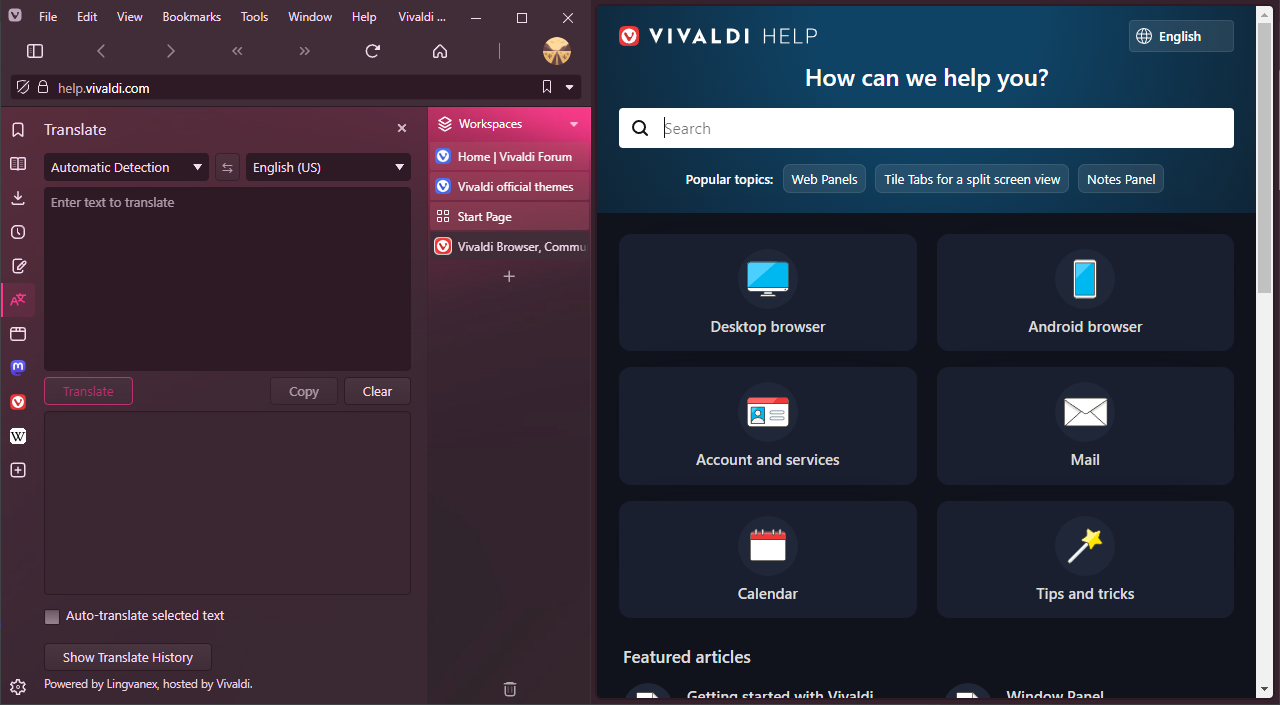
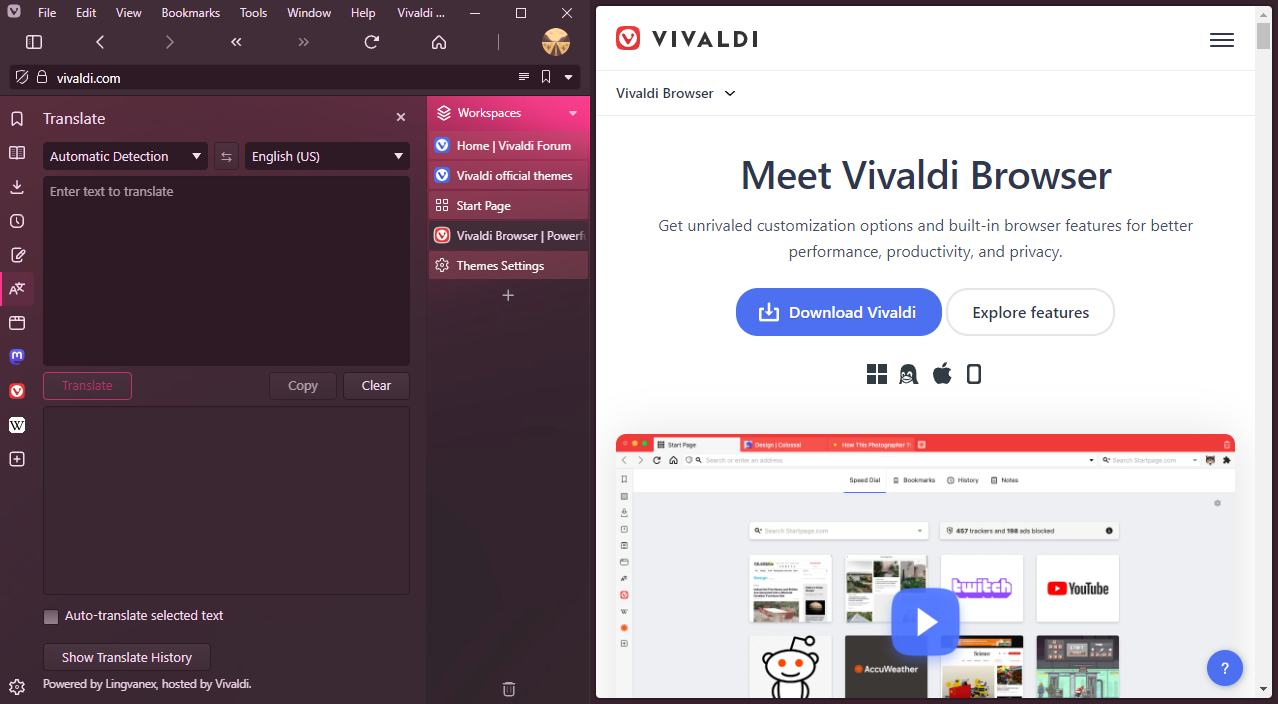
Finalize version 1.2.0:
Increment minor version number.
Update target browser versions.
Update documentation and demo images.
Add v1.2.0 changelog and Command Chain Utilities document.

diff --git a/vivaldi-vh.scss b/vivaldi-vh.scss
@@ -1,7 +1,7 @@
 /*
   Vivaldi VH
-  Version: 1.1.0
-  Target Vivaldi Browser versions: 5.7, 5.8
+  Version: 1.2.0
+  Target Vivaldi Browser versions: 5.7, 6.0
 
   Vivaldi VH is a CSS modification for Vivaldi Browser that grants your webpages the entire vertical space of the browser window by moving the rest of the UI into a separate column.
 

diff --git a/README.md b/README.md
@@ -11,12 +11,11 @@ Vivaldi VH is a CSS modification for [Vivaldi Browser](https://vivaldi.com) that
 
 ## Usage Notes
 
-Vivaldi VH has a built-in failsafe to prevent it from breaking horribly when the Pillar can't be properly constructed. The presence of title bar, address bar and a vertical tab bar are currently mandatory for this.
+Vivaldi VH has a built-in failsafe to prevent it from breaking when the Pillar can't be properly constructed. The presence of address bar and a vertical tab bar are currently mandatory for this.
 
 Vivaldi VH will only activate when all of the following are true:
 
 - Tab Bar Position is set to "Left" or "Right"
-- "Show Title Bar" is checked **OR** "Menu Position" is set to "Horizontal"
 - "Show Address Bar" is checked
 - "Show Tab Bar" is checked
 
@@ -28,11 +27,17 @@ Command Chain Flags allow you to customize Vivaldi VH right inside Vivaldi Brows
 
 [Click here](./documentation/command-chain-flags.md) for more information.
 
+## Command Chain Utilities
+
+Command Chain Utilities allow you to fine-tune the layout of your toolbars.
+
+[Click here](./documentation/command-chain-utilities.md) for more information.
+
 ## Roadmap
 
 Vivaldi VH will be updated regularly to ensure compatibility with the latest stable version of Vivaldi Browser. New functionality may also be added in the future.
 
-[Click here](./documentation/roadmap.md) for more information on planned updates and known issues.
+[Click here](./documentation/roadmap.md) for more information on planned features and known issues.
 
 ## Gallery
 

diff --git a/documentation/command-chain-flags.md b/documentation/command-chain-flags.md
@@ -29,7 +29,7 @@ For each flag, the following precedence rules apply:
 `vvh-enable-addressbar-universal-flex-grow` \
 `vvh-disable-addressbar-universal-flex-grow`
 
-The width of individual components in the address bar grows to occupy free space in their row. This can also grow their click area.
+Individual components in the address bar are distributed evenly across the width of each row. If the title bar is shown, this can also grow their click area.
 
 Additionally, flexible spacers inside the address bar are hidden.
 
@@ -40,7 +40,7 @@ Additionally, flexible spacers inside the address bar are hidden.
 `vvh-enable-statusbar-universal-flex-grow` \
 `vvh-disable-statusbar-universal-flex-grow`
 
-The width of individual components in the status bar grows to occupy free space in their row. This can also grow their click area.
+Individual components in the status bar are distributed evenly across the width of each row. This can also grow their click area.
 
 Additionally, flexible spacers inside the status bar are hidden.
 

diff --git a/documentation/command-chain-utilities.md b/documentation/command-chain-utilities.md
@@ -1,0 +1,19 @@
+# Command Chain Utilities
+
+Command Chain Utilities allow you to fine-tune the layout of your toolbars.
+
+## Setup Guide
+
+You can set up Command Chain Utilities for specific features by following the steps below.
+
+1. [Create a Command Chain](https://help.vivaldi.com/desktop/shortcuts/command-chains/#Create_a_Command_Chain) in the Quick Commands settings of Vivaldi Browser.
+2. Give this command chain a name that matches the utility you would like to use, for example `vvh-insert-linebreak`.
+3. [Open the Toolbar Editor](https://help.vivaldi.com/desktop/appearance-customization/edit-toolbars/#Customize_toolbars) and select "Command Chains" from the dropdown. Grab your created Command Chain and drag it into one of your toolbars.
+
+## Available Utilities
+
+### Toolbar linebreak
+
+`vvh-insert-linebreak`
+
+This can be placed between toolbar components that would normally fit on the same row to move them to separate rows.

diff --git a/documentation/changelogs/v1.2.0-changelog.md b/documentation/changelogs/v1.2.0-changelog.md
@@ -1,0 +1,13 @@
+# v1.2.0 Changelog
+
+## Changes
+
+- Vivaldi VH no longer requires the title bar to be shown.
+- Toolbar linebreaks are now available.
+  - *"[Click here to find out how to set up toolbar linebreaks.](../command-chain-utilities.md)"*
+- Command Chain Flags, Command Chain Utilities and flexible spaces are now highlighted in the toolbar editor.
+- Command Chain Flags and Command Chain Utilities now remain hidden when Vivaldi VH is disabled due to invalid settings.
+- When `addressbar-universal-flex-grow` or `statusbar-universal-flex-grow` is disabled, components of the respective toolbar are now initially justified to the left instead of centered.
+  - *"This change was required to implement the layout of Vivaldi VH without a title bar. Rest assured that centered toolbar components can still be achieved using flexible spaces."*
+- Documentation and demo images have been updated.
+- Unused source code has been removed.

diff --git a/documentation/roadmap.md b/documentation/roadmap.md
@@ -6,7 +6,6 @@ This document contains all information regarding future changes and known issues
 
 The following will be added to Vivaldi VH in the future, in no particular order:
 
-- Allow activation of Vivaldi VH when "Show Title Bar" is unchecked.
 - [Panel at full height behind a Command Chain Flag](./command-chain-flags.md#coming-soon-panel-at-full-height).
 - Allow activation of Vivaldi VH when "Show Address Bar" is unchecked.
 - A "Zen Mode" where the webpage takes up the entire browser window, with the Pillar and panel floating in from the sides on demand
